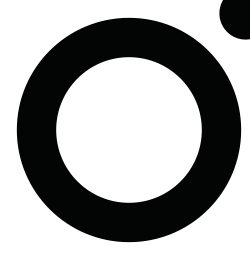
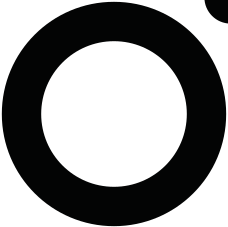
readme updaets

Changed region(s): [[0.0, 0.0, 1.0, 1.0], [0.1535, 0.1542, 0.8289, 0.8326], [0.8596, 0.0, 1.0, 0.185]]

diff --git a/demo/src/main.ts b/demo/src/main.ts
@@ -11,7 +11,7 @@ document.getElementById('test-print')?.addEventListener('click', async () => {
   const printContent: Uint8Array = await generatePrintCommandsForImage('/the-2-time.webp', {
     cutAfterPrint: true,
     newLinesAfterImage: 3,
-    printerWidthInPx: 300,
+    printerWidthInPx: 377,
   });
 
   console.log('Prepared print data. Starting to print', printContent);

diff --git a/README.md b/README.md
@@ -20,6 +20,20 @@ const printContent: Uint8Array = await generatePrintCommandsForImage('/the-2-tim
 });
 ```
 
+## FAQ
+
+### How to find `printerWidthInPx`?
+
+> px = mm * dpi / 25.4
+
+- Common dpi values are `200` and `300`.
+- Common mm values are 58mm (... need to find out). But in reality you have to subtract ~10mm as margin for both sides. If your rendered images is more than the maximum pixes available in printer, the printer crashes. Then you have to restart your printer.
+
+**Eg:**
+- 200 dpi
+- 58 mm - 10mm = 48mm
+- gives 377px
+
 ## License
 
 MIT &copy; [Vajahath Ahmed](https://www.threads.net/@vajahath_)
